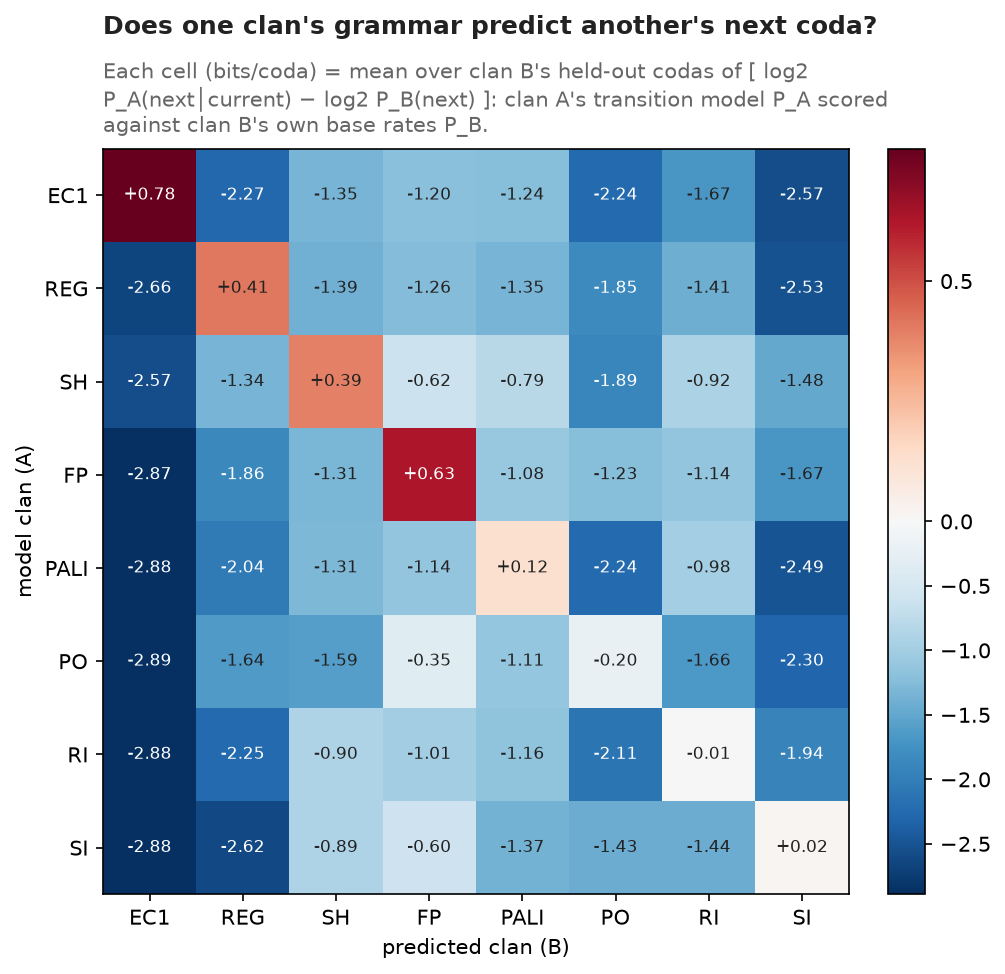
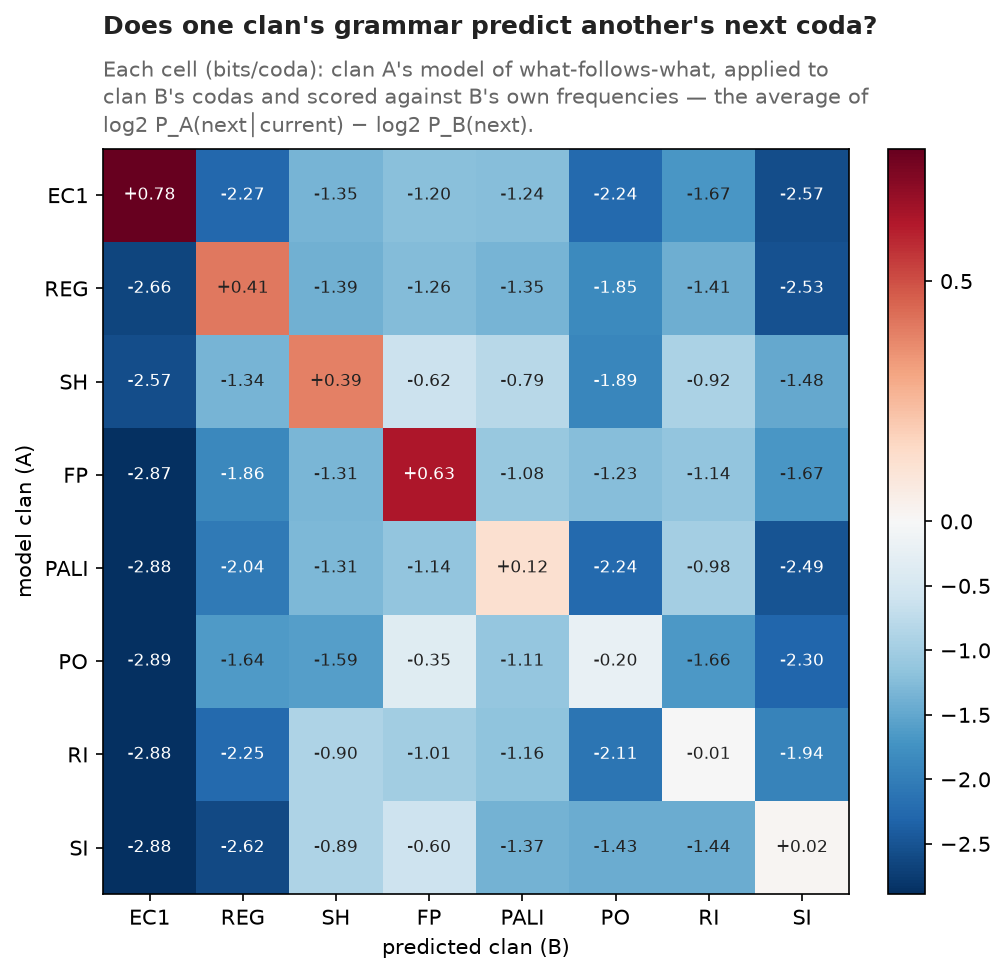
Figure 4: make the cross-prediction subtitle readable
Lead with the plain operation (clan A's model applied to clan B's codas, scored
against B's own frequencies), then give the formula as the precise version, instead
of opening with dense notation.

Changed region(s): [[0.0925, 0.0616, 0.8945, 0.154]]

diff --git a/src/coda_recovery/clan_similarity.py b/src/coda_recovery/clan_similarity.py
@@ -180,9 +180,9 @@ def main():
     # grammar, negative = actively mis-predicts): two hues, neutral (white) at 0.
     tnorm = TwoSlopeNorm(vmin=float(np.nanmin(T)), vcenter=0.0, vmax=float(np.nanmax(T)))
     _heatmap(T, "Does one clan's grammar predict another's next coda?",
-             "Each cell (bits/coda) = mean over clan B's held-out codas of "
-             "[ log2 P_A(next│current) − log2 P_B(next) ]: clan A's transition model P_A scored "
-             "against clan B's own base rates P_B.",
+             "Each cell (bits/coda): clan A's model of what-follows-what, applied to clan B's codas "
+             "and scored against B's own frequencies — the average of "
+             "log2 P_A(next│current) − log2 P_B(next).",
              "4_grammar_is_clan_specific.png", "RdBu_r", norm=tnorm)
     # Procrustes distance is sequential magnitude (0 = identical): one hue, light→dark.
     _heatmap(D, "Each clan's sequencing has its own distinct shape",
